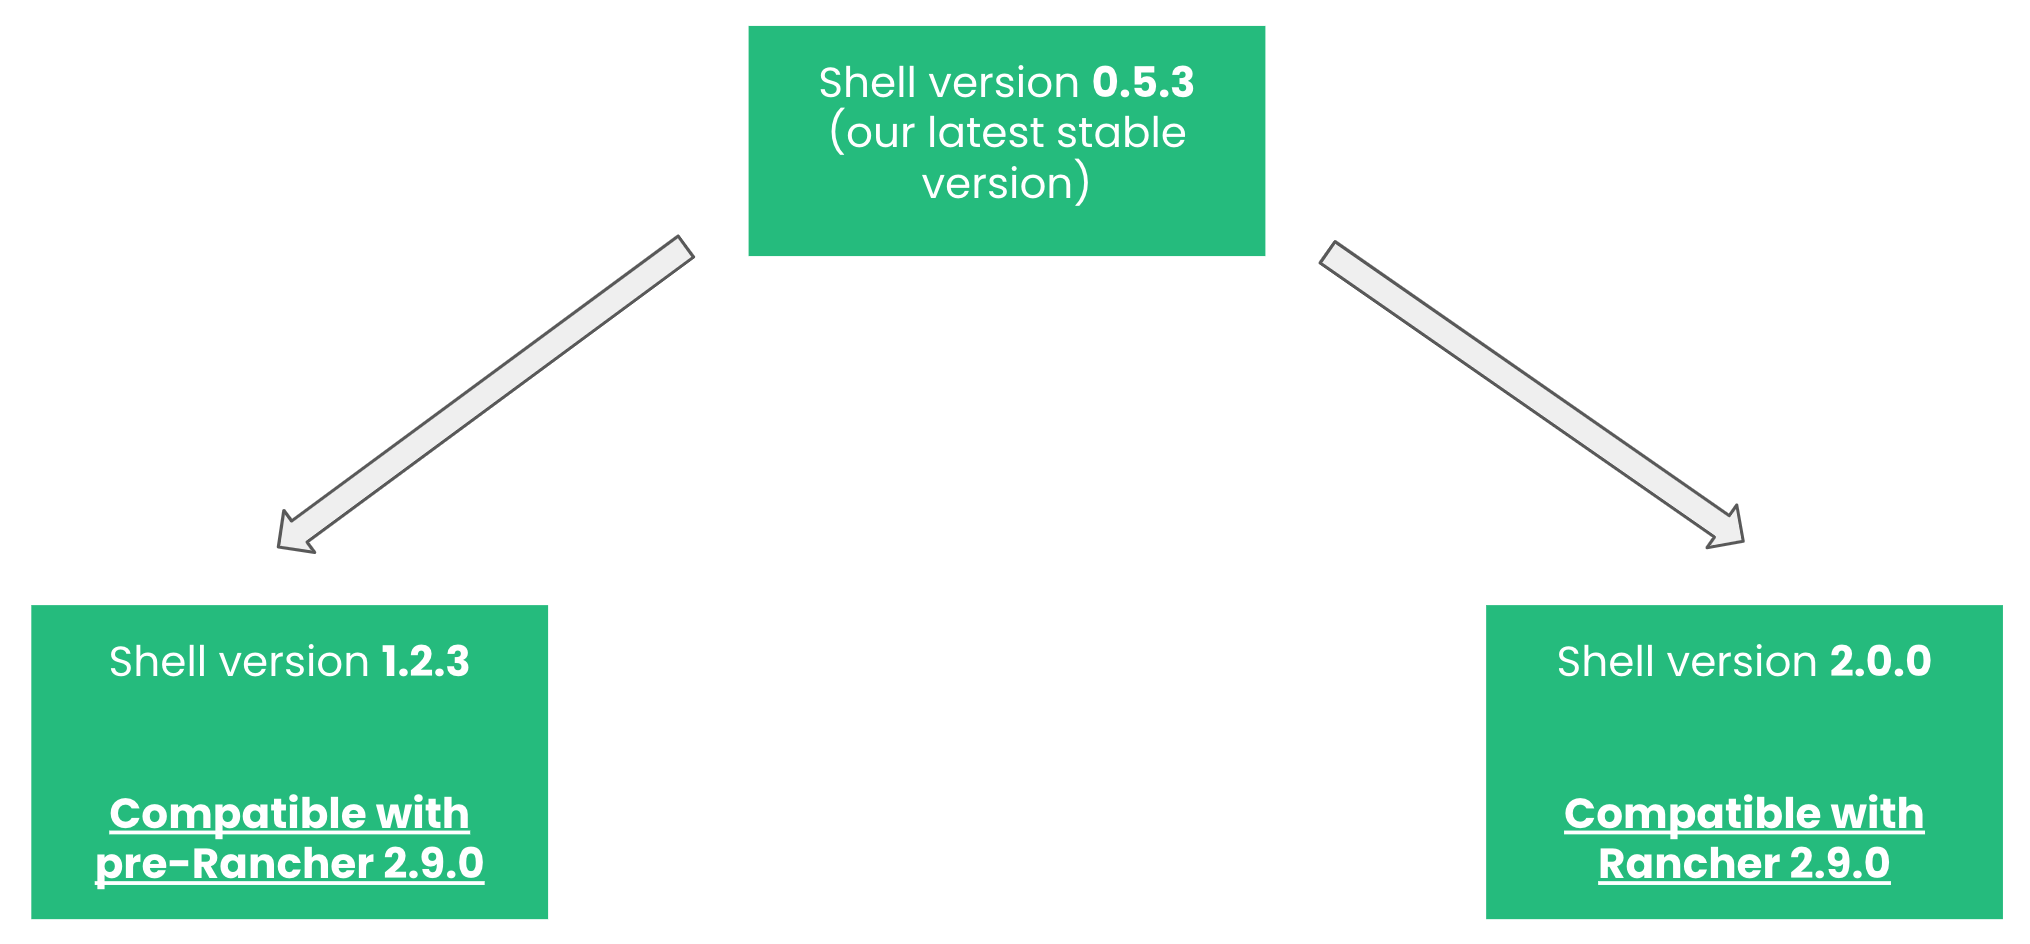
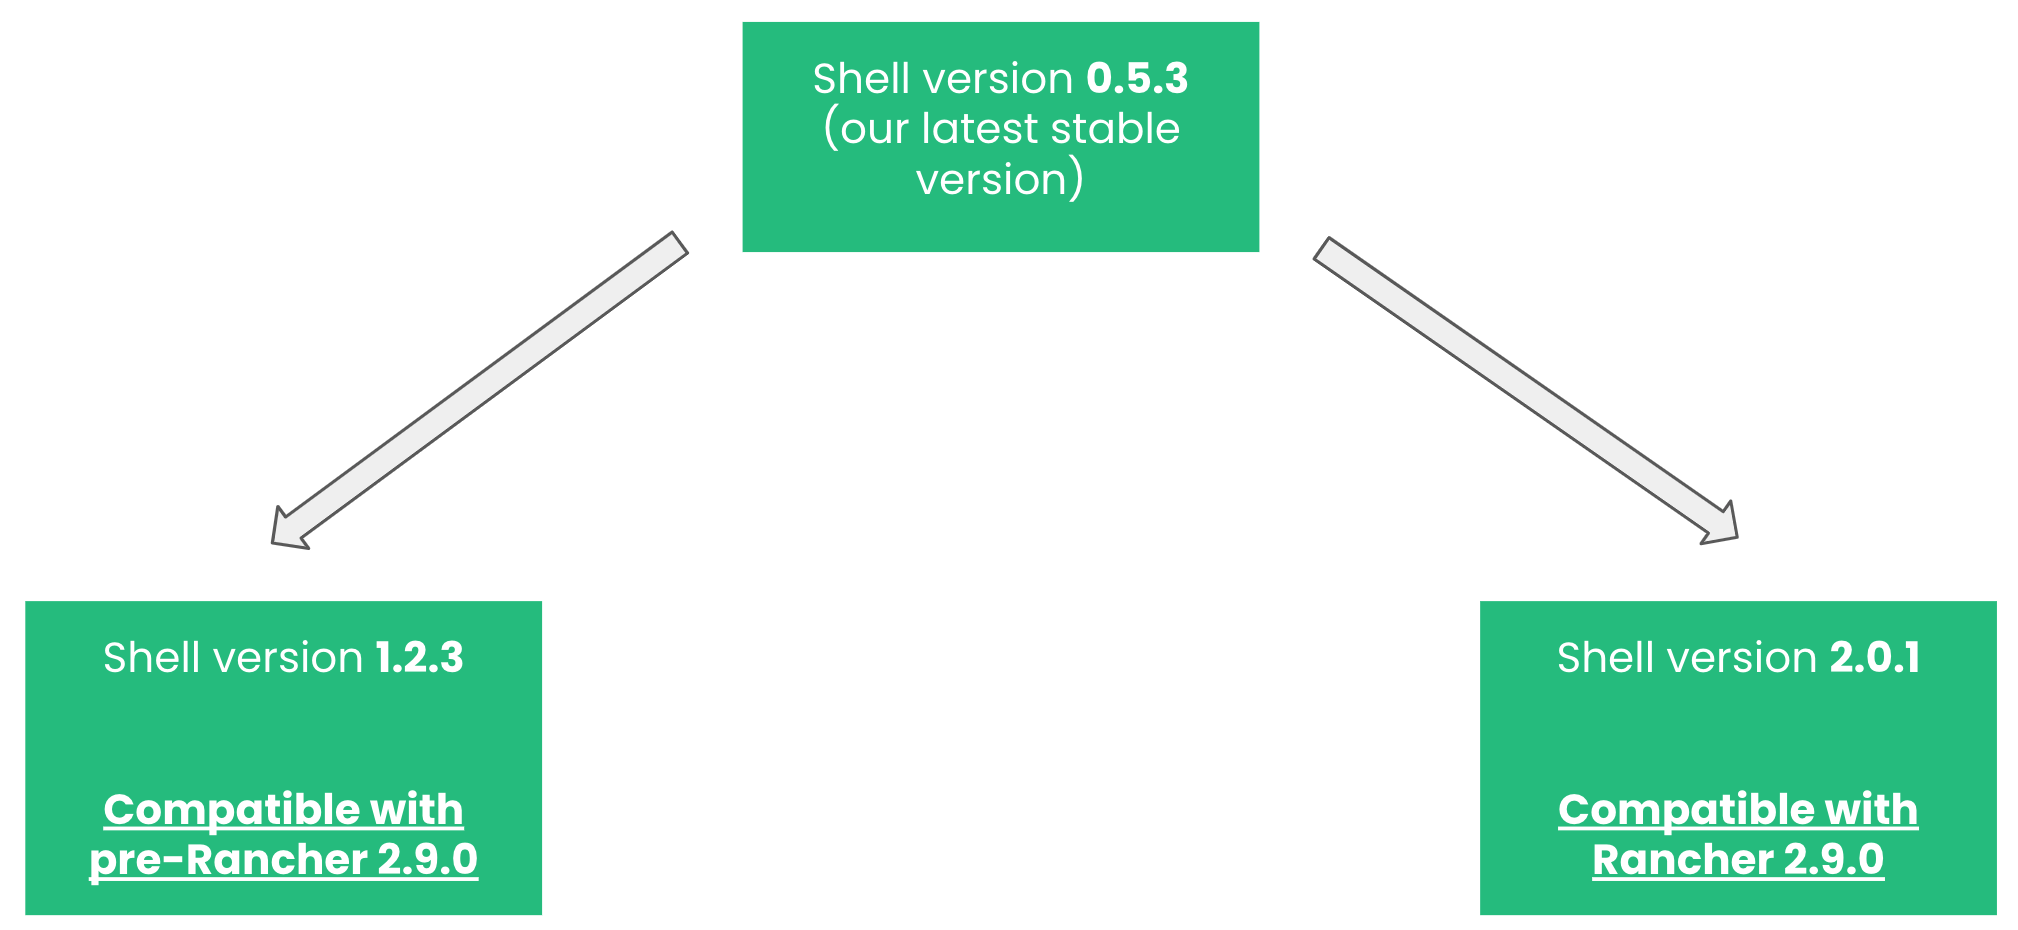
update all references to shell 2.0.0 to 2.0.1

diff --git a/docusaurus/sidebars.js b/docusaurus/sidebars.js
@@ -118,7 +118,8 @@ const sidebars = {
               ]
             }
           ]
-        }
+        },
+        'extensions/known-issues',
       ]
     },
   ],

diff --git a/docusaurus/docs/extensions/rancher-2.9-support.md b/docusaurus/docs/extensions/rancher-2.9-support.md
@@ -16,10 +16,10 @@ Effectively, we've had to split Shell into two different versions:
 
 - `1.2.3` - which is compliant with any **pre-2.9.0** Rancher system (effectively should be the same as using `0.5.3`).
 
-- `2.0.0` - which is compliant and **needed** for a **2.9.0** Rancher system
+- `2.0.1` - which is compliant and **needed** for a **2.9.0** Rancher system
 
 
-For future releases of your extension to **work on Rancher 2.9.0** you will need to build and release a new version of your extension using Shell `2.0.0`.
+For future releases of your extension to **work on Rancher 2.9.0** you will need to build and release a new version of your extension using Shell `2.0.1`.
 
 > If your extension is using Shell `0.5.3` and you **don't need** to be compliant with Rancher 2.9.0, there's no update to do.
 
@@ -39,14 +39,14 @@ These changes bring Shell versions in line with standard versioning patterns. On
   "rancher": {
     "annotations": {
       "catalog.cattle.io/rancher-version": ">= 2.9.0",
-      "catalog.cattle.io/ui-extensions-version": ">= 2.0.0"
+      "catalog.cattle.io/ui-extensions-version": ">= 2.0.1"
     }
   },
   ....
 }
 ```
 
-> With these annotations your extension will be restricted to Rancher version greater or equal to `2.9.0` and will also be restricted to a UI Extensions version (Shell version) greater than or equal to `2.0.0`.  
+> With these annotations your extension will be restricted to Rancher version greater or equal to `2.9.0` and will also be restricted to a UI Extensions version (Shell version) greater than or equal to `2.0.1`.  
 These are not mandatory but highly recommended to ensure your extension versions reference Rancher / Shell versions they're compatible with.  
 For more information about the annotation we allow for, check the documentation [here](./extensions-configuration#configurable-annotations).
 

diff --git a/docusaurus/docs/extensions/known-issues.md b/docusaurus/docs/extensions/known-issues.md
@@ -1,0 +1,16 @@
+# Known issues
+
+- Running `yarn create @rancher/app app-name` + `yarn create @rancher/pkg your-extension-name` might generate a situation where trying to install dependencies will hit a problem with the `glob` package not being the appropriate version for the recommended node version (tries to install `glob` version only compatible with node v18).   
+If that is the case, the fix is to add to your app's `package.json` the following resolution:
+
+```
+{
+  "name": "app-name",
+  "version": "0.1.0",
+  ...
+  resolutions": {
+    "glob": "7.2.3"
+  },
+  ...
+}
+```

diff --git a/docusaurus/docs/extensions/support-matrix.md b/docusaurus/docs/extensions/support-matrix.md
@@ -9,7 +9,7 @@ It's important to know which version of the Shell package is compatible with eac
 |---|---|---|---|
 |Shell **0.3.8**|Supported|Limited support|Not supported|
 |Shell 0.5.3/**1.2.3**|Limited support|Supported|Not supported|
-|Shell **2.0.0**|Not supported|Not supported|Supported|
+|Shell **2.0.1**|Not supported|Not supported|Supported|
 
 To know more about the Shell package versioning take a look at the diagram [here](./rancher-2.9-support).
 
